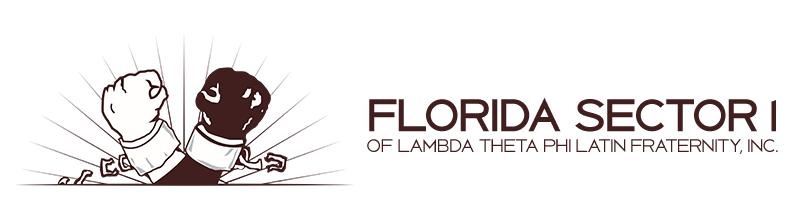
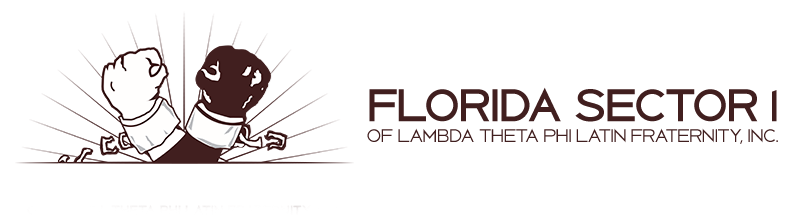
Multiple Edits
Relocated chapters to “chapters” folder

Header & Footer about 85% complete
     styling changes

Home page
     change of feature image
     article modules edited - addition of FLS1 image

Changed region(s): [[0.0312, 0.1935, 0.4375, 0.8571], [0.4375, 0.3871, 0.9688, 0.7189], [0.375, 0.4424, 0.4062, 0.4977]]

diff --git a/css/main.css b/css/main.css
@@ -14,7 +14,7 @@ ul,ol{
 }
 
 body {
-	background: url(../img/texture.png) repeat;
+	background-color: #FFFFFF;
 }
 
 
@@ -26,16 +26,16 @@ body {
 }
 
 .navbar-inverse {
-	background: rgb(100,54,20); /* Old browsers */
-	background: -moz-linear-gradient(top,  rgba(100,54,20,1) 0%, rgba(81,45,30,1) 100%); /* FF3.6+ */
-	background: -webkit-gradient(linear, left top, left bottom, color-stop(0%,rgba(100,54,20,1)), color-stop(100%,rgba(81,45,30,1))); /* Chrome,Safari4+ */
-	background: -webkit-linear-gradient(top,  rgba(100,54,20,1) 0%,rgba(81,45,30,1) 100%); /* Chrome10+,Safari5.1+ */
-	background: -o-linear-gradient(top,  rgba(100,54,20,1) 0%,rgba(81,45,30,1) 100%); /* Opera 11.10+ */
-	background: -ms-linear-gradient(top,  rgba(100,54,20,1) 0%,rgba(81,45,30,1) 100%); /* IE10+ */
-	background: linear-gradient(to bottom,  rgba(100,54,20,1) 0%,rgba(81,45,30,1) 100%); /* W3C */
-	filter: progid:DXImageTransform.Microsoft.gradient( startColorstr='#643614', endColorstr='#512d1e',GradientType=0 ); /* IE6-9 */
-	border-color: #FFFFFF;
-	border-width: 0 0 1px;
+	background: rgb(81,45,30); /* Old browsers */
+	background: -moz-linear-gradient(top,  rgba(81,45,30,1) 0%, rgba(81,45,30,1) 100%); /* FF3.6+ */
+	background: -webkit-gradient(linear, left top, left bottom, color-stop(0%,rgba(81,45,30,1)), color-stop(100%,rgba(81,45,30,1))); /* Chrome,Safari4+ */
+	background: -webkit-linear-gradient(top,  rgba(81,45,30,1) 0%,rgba(81,45,30,1) 100%); /* Chrome10+,Safari5.1+ */
+	background: -o-linear-gradient(top,  rgba(81,45,30,1) 0%,rgba(81,45,30,1) 100%); /* Opera 11.10+ */
+	background: -ms-linear-gradient(top,  rgba(81,45,30,1) 0%,rgba(81,45,30,1) 100%); /* IE10+ */
+	background: linear-gradient(to bottom,  rgba(81,45,30,1) 0%,rgba(81,45,30,1) 100%); /* W3C */
+	filter: progid:DXImageTransform.Microsoft.gradient( startColorstr='#512d1e', endColorstr='#512d1e',GradientType=0 ); /* IE6-9 */
+	border-bottom: solid 1px #643614;
+
 }
 
 .navbar-inverse .navbar-nav>li>a {
@@ -45,14 +45,15 @@ body {
 .navbar-inverse .navbar-nav>.active>a{
 	background-color: #FFFFFF;
 	color: #78431B;
-	background: rgba(255,255,255,1);
-	background: -moz-linear-gradient(top, rgba(255,255,255,1) 0%, rgba(235,235,235,1) 100%);
-	background: -webkit-gradient(left top, left bottom, color-stop(0%, rgba(255,255,255,1)), color-stop(100%, rgba(235,235,235,1)));
-	background: -webkit-linear-gradient(top, rgba(255,255,255,1) 0%, rgba(235,235,235,1) 100%);
-	background: -o-linear-gradient(top, rgba(255,255,255,1) 0%, rgba(235,235,235,1) 100%);
-	background: -ms-linear-gradient(top, rgba(255,255,255,1) 0%, rgba(235,235,235,1) 100%);
-	background: linear-gradient(to bottom, rgba(255,255,255,1) 0%, rgba(235,235,235,1) 100%);
-	filter: progid:DXImageTransform.Microsoft.gradient( startColorstr='#ffffff', endColorstr='#ebebeb', GradientType=0 );
+background: rgb(255,255,255); /* Old browsers */
+background: -moz-linear-gradient(top,  rgba(255,255,255,1) 0%, rgba(255,255,255,1) 100%); /* FF3.6+ */
+background: -webkit-gradient(linear, left top, left bottom, color-stop(0%,rgba(255,255,255,1)), color-stop(100%,rgba(255,255,255,1))); /* Chrome,Safari4+ */
+background: -webkit-linear-gradient(top,  rgba(255,255,255,1) 0%,rgba(255,255,255,1) 100%); /* Chrome10+,Safari5.1+ */
+background: -o-linear-gradient(top,  rgba(255,255,255,1) 0%,rgba(255,255,255,1) 100%); /* Opera 11.10+ */
+background: -ms-linear-gradient(top,  rgba(255,255,255,1) 0%,rgba(255,255,255,1) 100%); /* IE10+ */
+background: linear-gradient(to bottom,  rgba(255,255,255,1) 0%,rgba(255,255,255,1) 100%); /* W3C */
+filter: progid:DXImageTransform.Microsoft.gradient( startColorstr='#ffffff', endColorstr='#ffffff',GradientType=0 ); /* IE6-9 */
+
 }
 
 ul.nav.navbar-nav.pull-right {
@@ -69,13 +70,17 @@ ul.nav.navbar-nav.pull-right {
 }
 
 #head { 
-	background:#181015 url( ../img/aa_3.png) no-repeat; background-size: cover; min-height:520px; 
-	background-position: 25% 25%;
+	background: url( ../img/home_bg.png) no-repeat; background-size: cover; min-height:520px; 
+	/*background-position: 25% 25%;*/
 	text-align: center; 
-	padding-top:240px; 
-	color:white; 
+	padding-top: 50px; 
+	color: #FFFFFF; 
 	font-family:"Open sans", Helvetica, Arial; 
 	font-weight:300; 
+}
+
+#home_logo {
+	max-width: 75%;
 }
 
 #head.secondary { 
@@ -150,7 +155,7 @@ ul.nav.navbar-nav.pull-right {
 .highlight { margin-top:40px; }
 	.h-caption { text-align: center; } 
 	.h-caption i { display:block; font-size: 54px; color:#382526; margin-bottom:36px; }
-	.h-caption h4 { color:#78431B; font-size: 22px; font-weight: bold; margin-bottom:20px; }
+	.h-caption h4 { color:#78431B; font-size: 22px; font-weight: bold; margin-bottom:10px; }
 	.h-body { }
 
 
@@ -160,7 +165,7 @@ p { font-family: 'Open Sans', sans-serif; font-size: 12px; color: #331F1F;}
 h1, .h1, h2, .h2, h3, .h3 { margin-top:30px; } 
 blockquote { font-style: italic; font-family: Georgia; color:#999; margin:30px 0 30px; }
 label { color: #777; }
-.thin { font-weight:300; font-family: 'PT Sans', sans-serif; color:#78431B; margin-top: 10px;}
+.thin { font-weight:300; font-family: 'PT Sans', sans-serif; color:#643614; margin-top: 10px;}
 .page-title { margin-top:20px; font-weight:300; }
 .text-muted { color:#78431B; font-family: 'PT Sans', sans-serif; font-size: 20px;}
 .breadcrumb { background:none; padding:0; margin:100px 0 0px 0; }
@@ -173,7 +178,7 @@ ul.list-spaces li{ margin-bottom:10px; }
 
 img { max-width:100%; }
 img.pull-right { margin-left: 10px; }
-img.pull-left { margin-right: 10px; }
+img.pull-left { margin-right: 10px; margin-top: 5px;}
 #map { width:100%; height:280px; }
 #social { margin-top:0px; margin-bottom:50px; }
 	#social .wrapper { width:340px; margin:0 auto; }
@@ -182,8 +187,8 @@ img.pull-left { margin-right: 10px; }
 .maincontent { }
 
 .container.text-center {
-	/*background: url(../img/texture.png) repeat;*/
-	width: ;
+/*	background-color: #512D1E;
+	width: 100%;*/
 	padding-bottom: 2%;
 	padding-top: 2%;
 }

diff --git a/index.html b/index.html
@@ -16,7 +16,7 @@
 	<link href='http://fonts.googleapis.com/css?family=PT+Sans' rel='stylesheet' type='text/css'>
 	<link href='http://fonts.googleapis.com/css?family=Open+Sans' rel='stylesheet' type='text/css'>
 
-	<!-- Icon -->
+	<!-- Favicon -->
 	<link rel="shortcut icon" href="favicon.ico"/>
 
 	<!-- CSS -->
@@ -68,32 +68,32 @@
 								</a>
 							</li>
 							<li>
-								<a href="phi.html">
+								<a href="chapters/phi.html">
 									Phi Chapter (UF)
 								</a>
 							</li>
 							<li>
-								<a href="aa.html">
+								<a href="chapters/aa.html">
 									Alpha Alpha (UCF)
 								</a>
 							</li>
 							<li>
-								<a href="apsi.html">
+								<a href="chapters/apsi.html">
 									Alpha Psi (USF)
 								</a>
 							</li>
 							<li>
-								<a href="betadelta.html">
+								<a href="chapters/betadelta.html">
 									Beta Delta (ERAU)
 								</a>
 							</li>
 							<li>
-								<a href="betaiota.html">
+								<a href="chapters/betaiota.html">
 									Beta Iota (FSU)
 								</a>
 							</li>
 							<li>
-								<a href="lambdabeta.html">
+								<a href="chapters/lambdabeta.html">
 									Alumni
 								</a>
 							</li>
@@ -110,7 +110,7 @@
 						</a>
 					</li>
 					<li>
-						<a class="btn" href="signin.html">
+						<a class="btn" href="donate.html">
 							Donate
 						</a>
 					</li>
@@ -124,18 +124,20 @@
 	<header id="head">
 		<div class="container">
 			<div class="row">
-				<h1 class="lead">
+				<img src="img/fls1_logo.png" alt="Florida Sector 1 of Lambda Theta Phi Latin Fraternity, Inc." id="home_logo">
+<!-- 				<h1 class="lead">
 					FLORIDA SECTOR 1
 				</h1>
 
 				<p class="tagline">
 					Lambda Theta Phi Latin Fraternity, Inc.
-				</p>
+				</p> -->
 				<p>
 					<a class="btn btn-default btn-lg" role="button" href="history.html">
 						MORE INFO
 					</a> 
-					<!-- <a class="btn btn-action btn-lg" role="button">DOWNLOAD NOW</a></p> -->
+					<!-- <a class="btn btn-action btn-lg" role="button">DOWNLOAD NOW</a> -->
+				</p>
 			</div>
 		</div>
 	</header>
@@ -157,16 +159,21 @@
 	<div class="jumbotron top-space">
 		<div class="container">
 			
-			<h2 class="text-center thin">En La Unión Está La Fuerza</h2>
+			<h2 class="text-center thin">Florida Sector 1 of Lambda Theta Phi Latin Fraternity, Inc.</h2>
 			
 			<div class="row">
 				<div class="col-md-8 col-sm-8 highlight">
-					<div class="h-caption"><h4><!-- <i class="fa fa-cogs fa-5"></i>-->Meet The Sector</h4></div>
-					<div class="h-body text-center">
+					<div class="h-caption"><h4>Meet The Sector</h4></div>
+
+					<a href="history.html">
+						<img src="img/meet.png" alt="" class="img pull-left" width="300" id="meet_image" /> 
+					</a>
+					<div class="h-body text-left">
 						<p>Since its founding, the organization has expanded across the United States. The organization strives to make an impact on not just undergraduate students, but also their surrounding community, through positive social actions. Our goals are to promote scholarship, Latin unity and respect for all cultures.</p>
 
-						<p><a href="#">READ MORE</a></p>
+						<p><a href="history.html">READ MORE</a></p>
 					</div>
+
 				</div>
 				
 				<div class="col-md-4 col-sm-4 highlight">
@@ -228,8 +235,8 @@
 							<p class="simplenav">
 								<a href="index.html">Home</a> | 
 								<a href="history.html">History</a> |
-								<a href="#">Who We Are</a> |
-								<a href="#">Events</a> |
+								<a href="eboard.html">Who We Are</a> |
+								<a href="events.html">Events</a> |
 								<a href="contact.html">Contact</a>
 							</p>
 						</div>

diff --git a/chapters/aa.html b/chapters/aa.html
@@ -13,16 +13,16 @@
 	<link rel="stylesheet" href="http://fonts.googleapis.com/css?family=Montserrat:400,700" type='text/css'>
 	<link rel="stylesheet" href="http://fonts.googleapis.com/css?family=Open+Sans:300,400,700" media="screen">
 	<link rel="stylesheet" href="http://maxcdn.bootstrapcdn.com/font-awesome/4.2.0/css/font-awesome.min.css" >
-	<link rel="stylesheet" href="fonts/font-awesome.min.css">
+	<link rel="stylesheet" href="../fonts/font-awesome.min.css">
 
 	<!-- Icon -->
 	<link rel="shortcut icon" href="#">
 
 	<!-- CSS -->
 	<link rel="stylesheet" href="https://maxcdn.bootstrapcdn.com/bootstrap/3.2.0/css/bootstrap.min.css" type="text/css">
-	<link rel="stylesheet" href="css/bootstrap.min.css">
-	<link rel="stylesheet" href="css/bootstrap-theme.min.css" media="screen" >
-	<link rel="stylesheet" href="css/main.css">
+	<link rel="stylesheet" href="../css/bootstrap.min.css">
+	<link rel="stylesheet" href="../css/bootstrap-theme.min.css" media="screen" >
+	<link rel="stylesheet" href="../css/main.css">
 
 	<!-- HTML5 shim and Respond.js IE8 support of HTML5 elements and media queries -->
 	<!--[if lt IE 9]>
